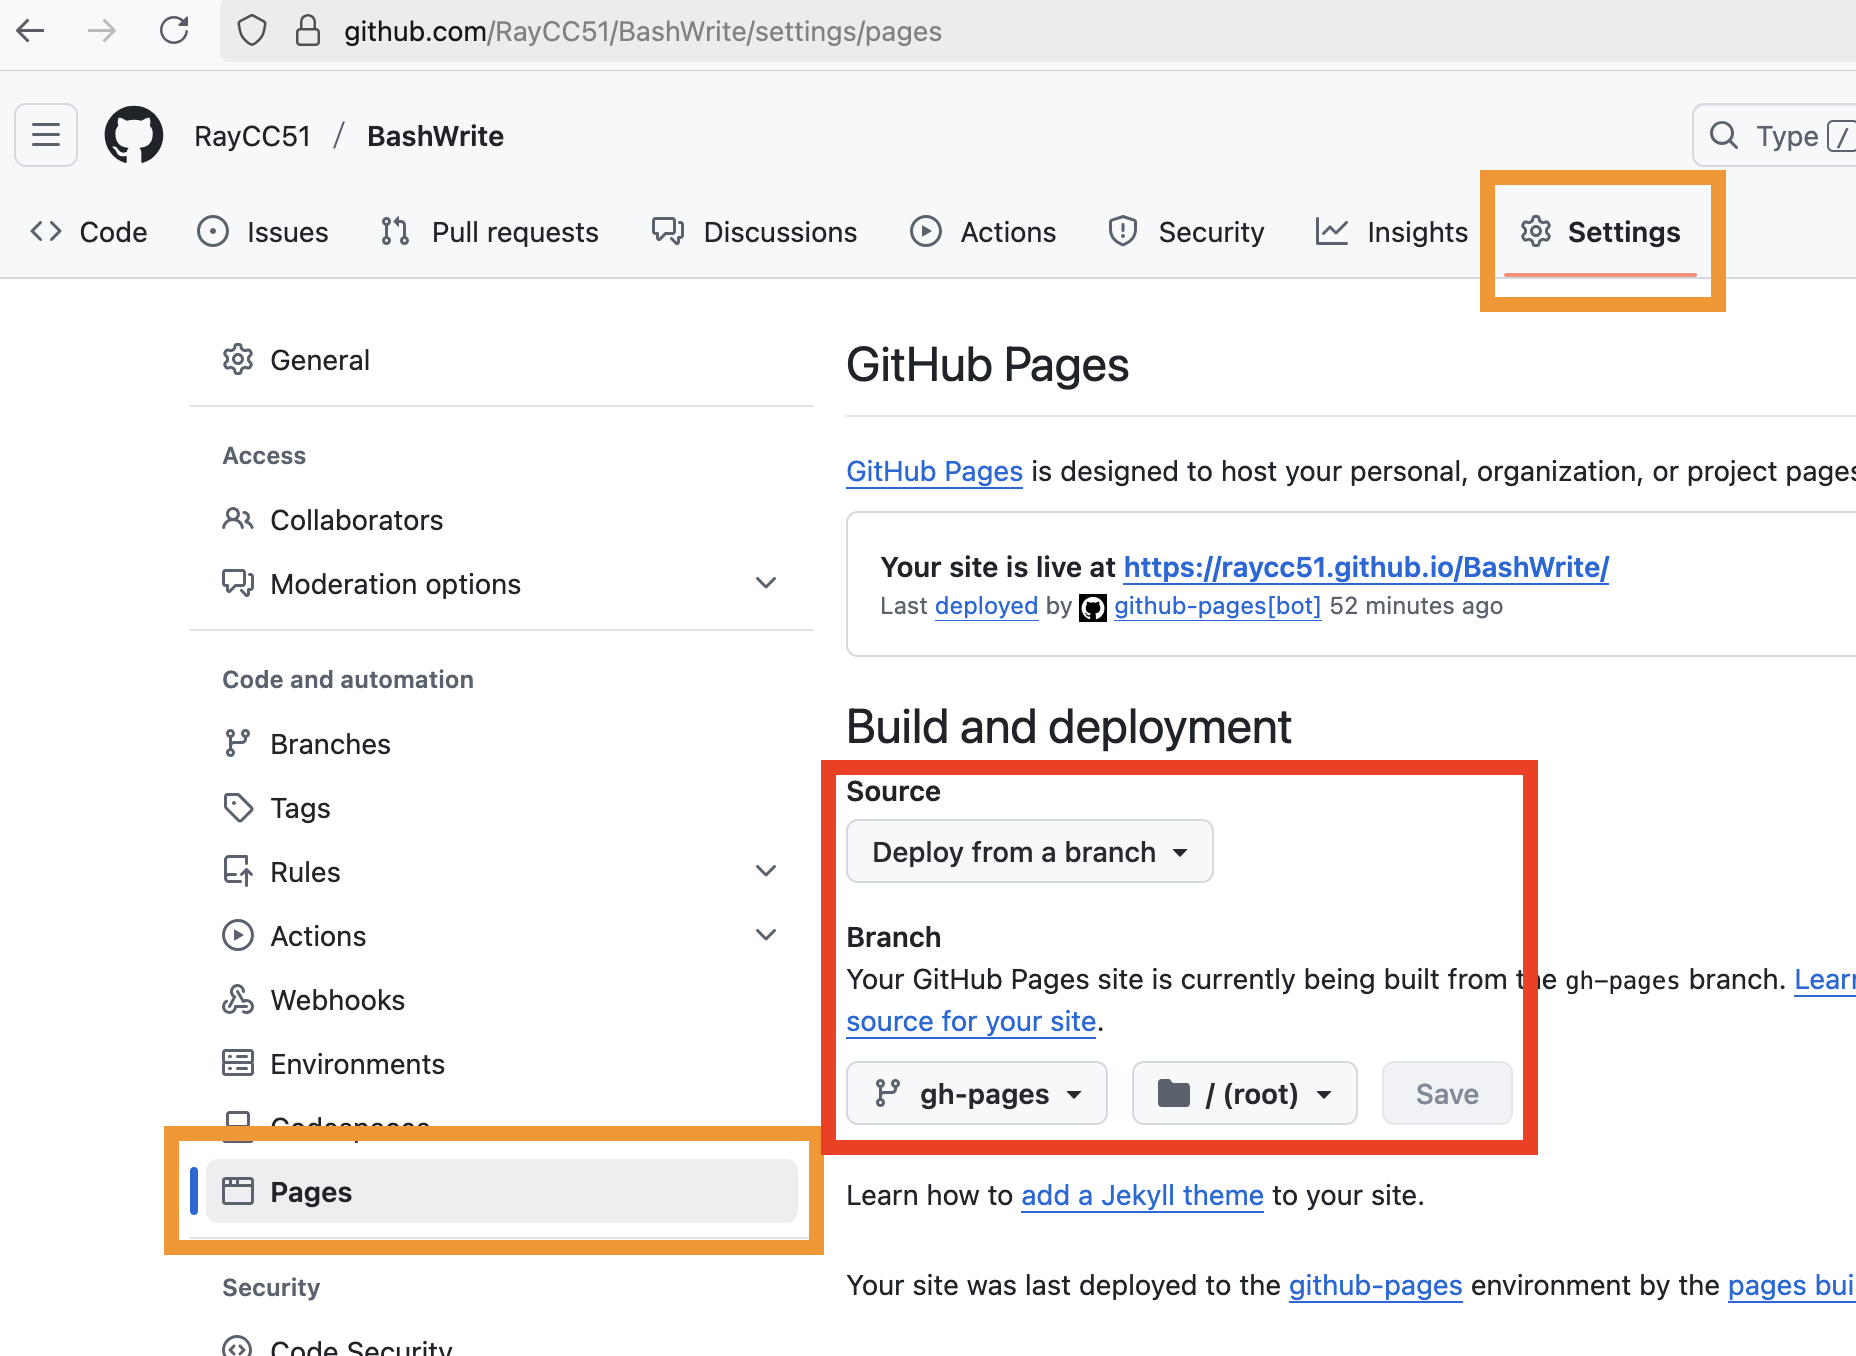
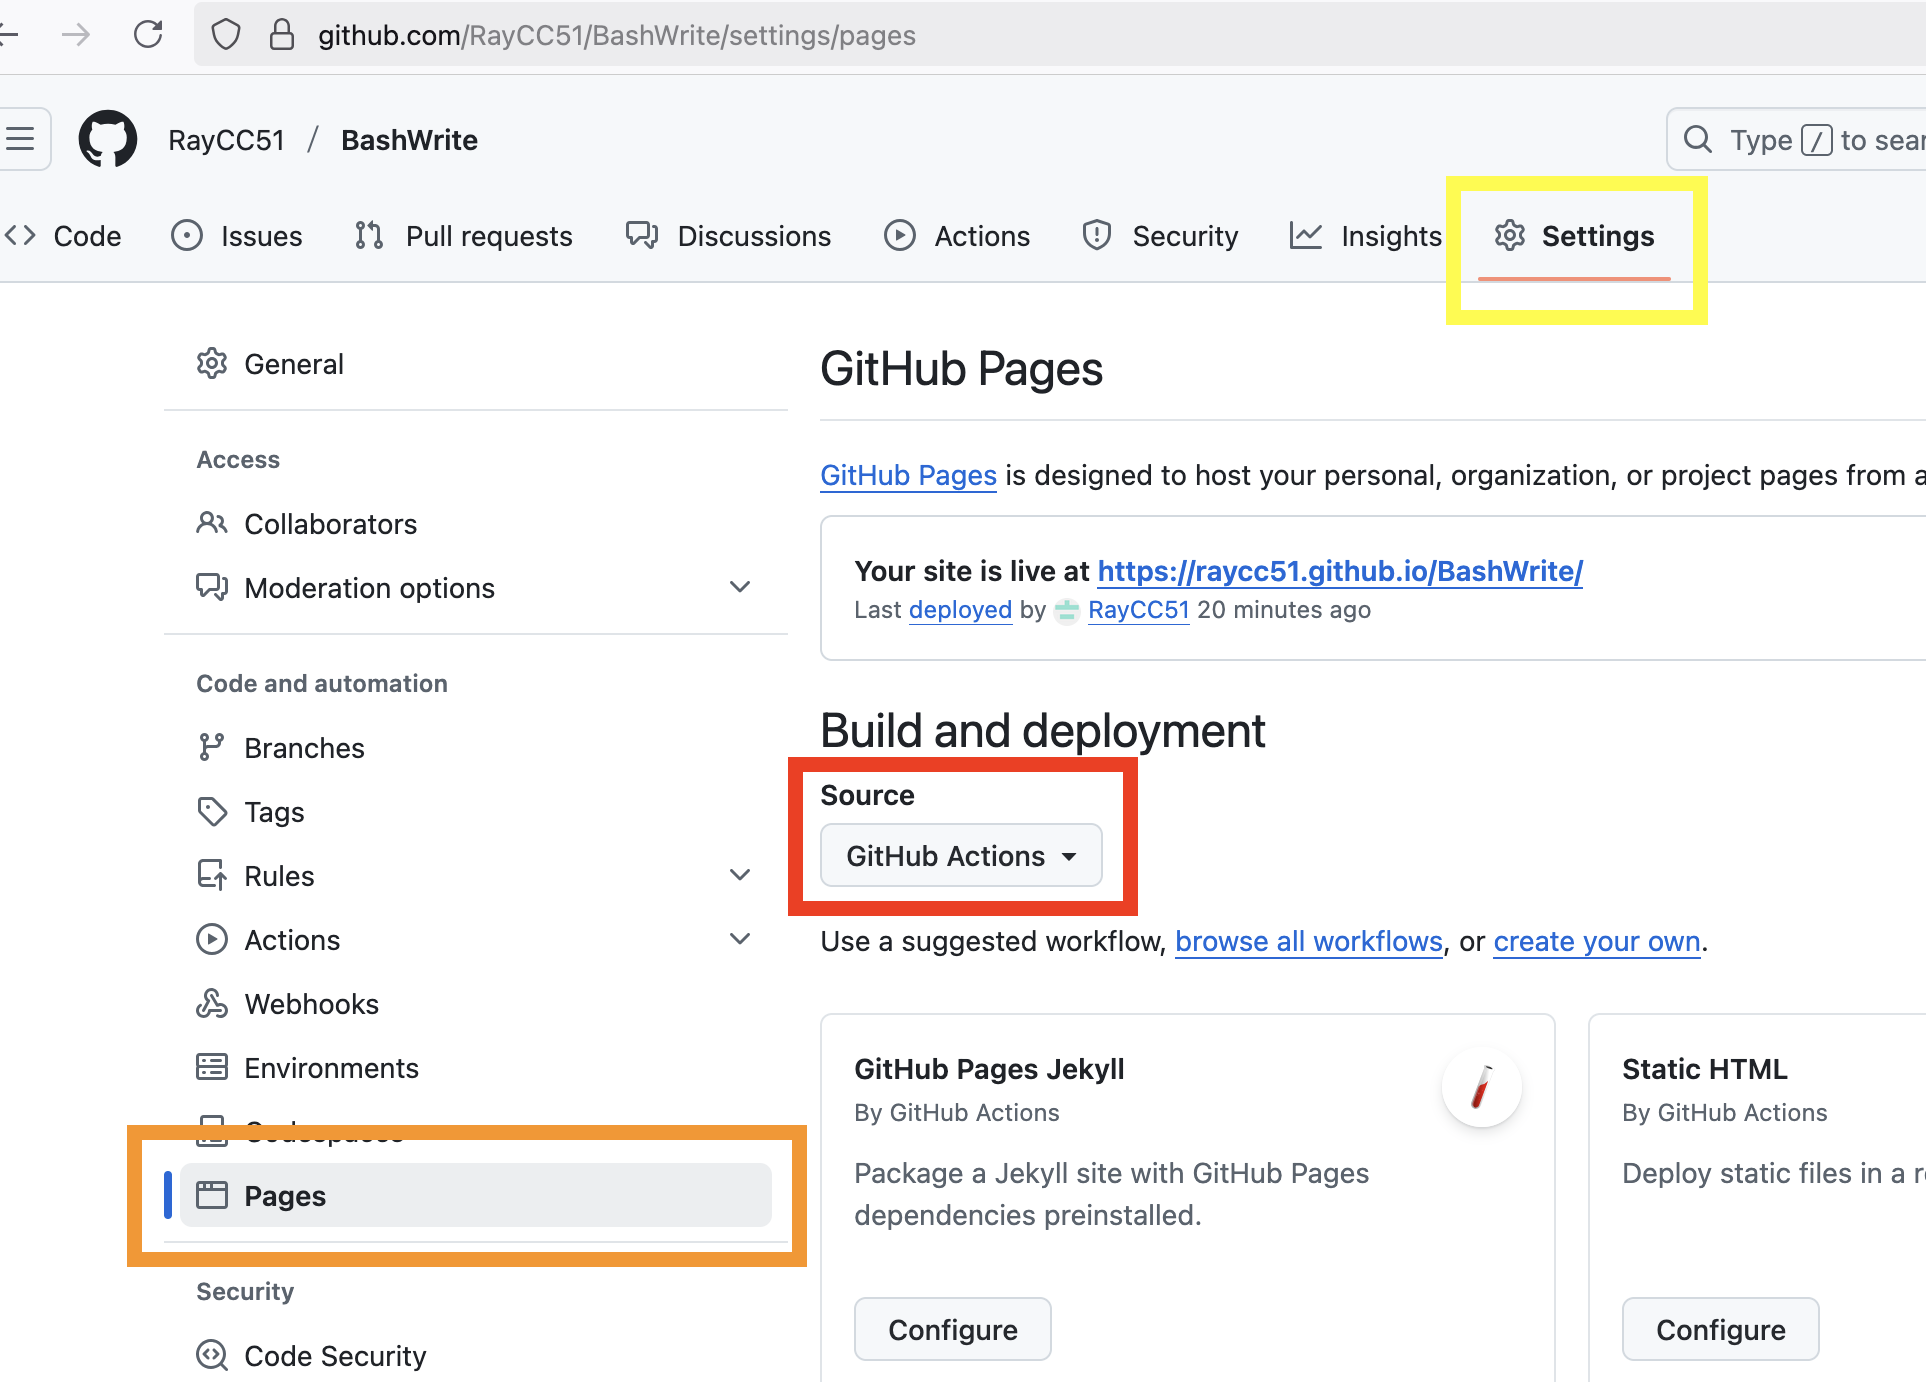
fix: update posts, blog: edit github pages

diff --git a/write/github-action/index.md b/write/github-action/index.md
@@ -32,7 +32,6 @@ your_blog/
 0. Push any files in your blog repository, or just run a github action. Then *gh-pages* branch will be created automatically.
 1. Go to the your blog repository settings.
 2. Settings -> Code and automation - Pages -> Build and deployment
-    - Source: Deploy from a branch
-    - Branch: gh-pages /(root)
+    - Source: Github actions
 3. Save the settings.
 4. Your site is live at *https://YOUR-NAME.github.io/* or *https://YOUR-NAME.github.io/REPO-NAME/*

diff --git a/README.md b/README.md
@@ -1,6 +1,6 @@
 # BashWrite - [demo](https://raycc51.github.io/BashWrite/)
 
-![screenshot](bashwrite_screenshot.png)
+![screenshot](screenshot.png)
 
 Single, pure bash script for make your blog. 
 
